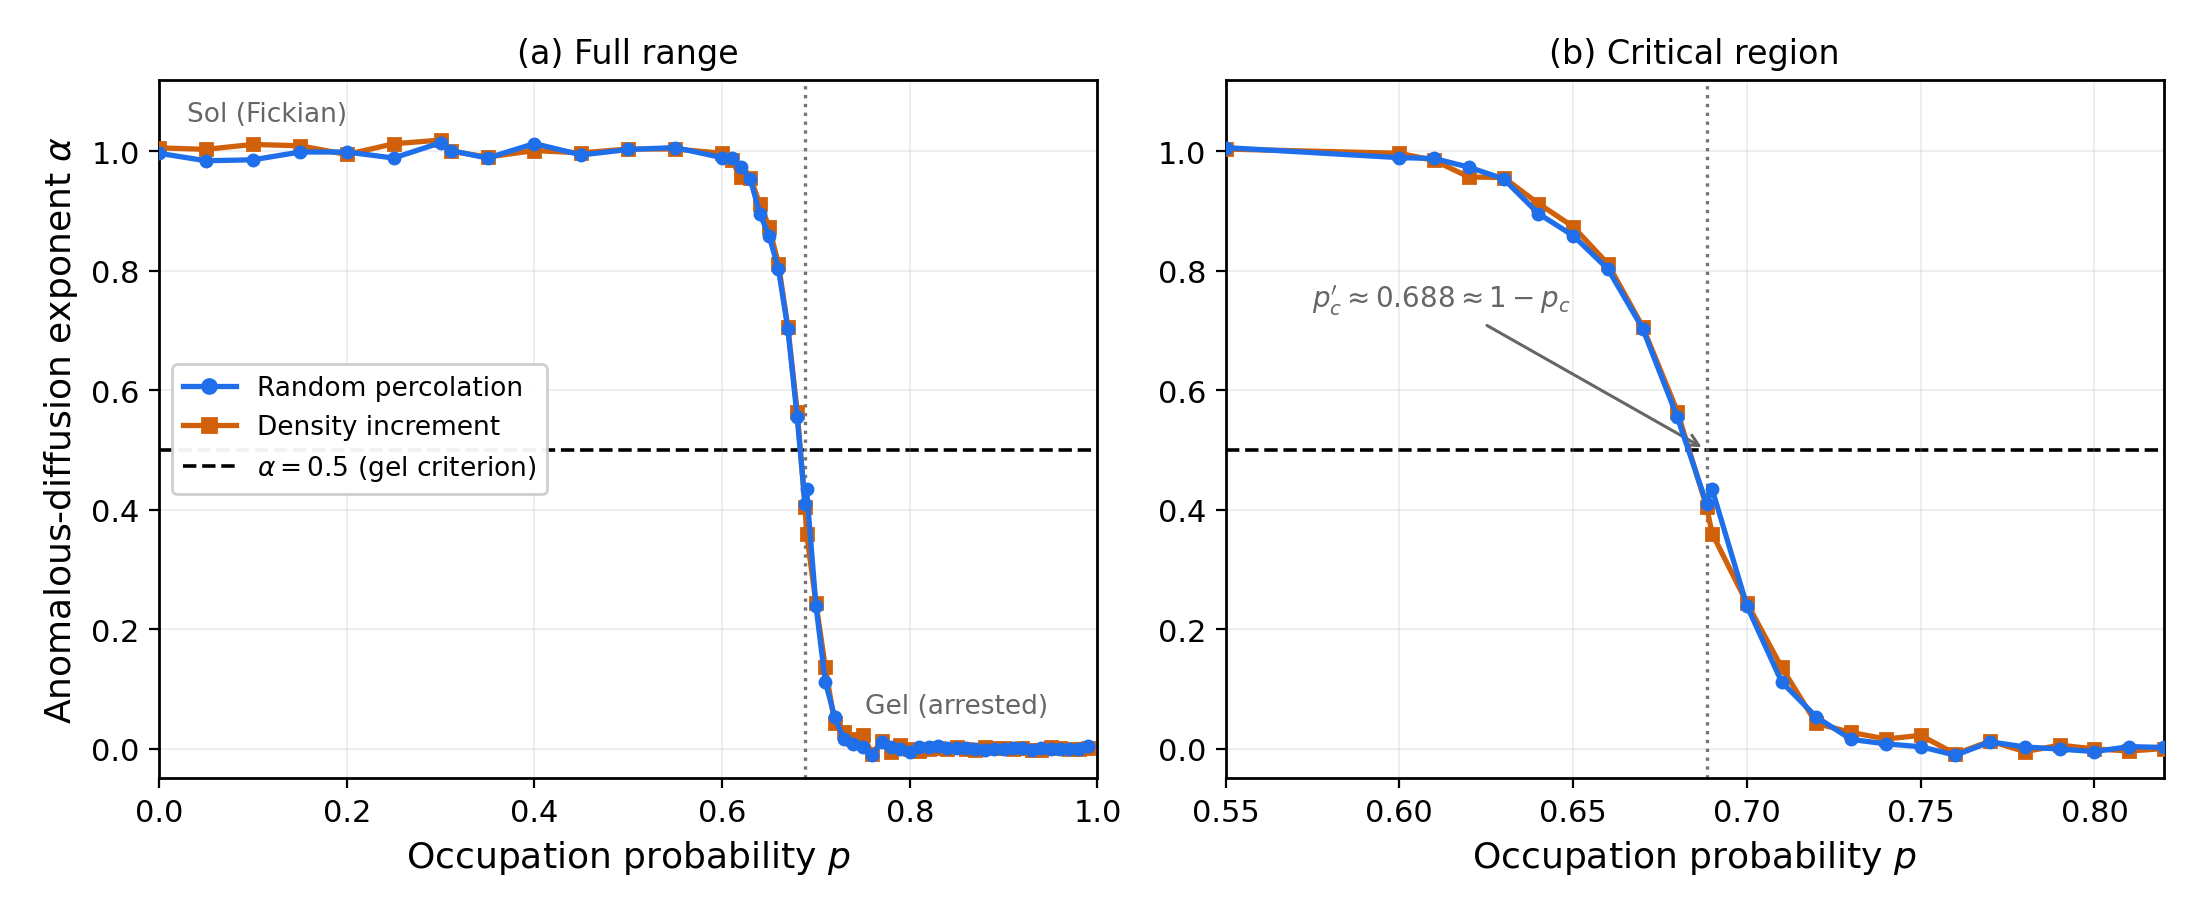
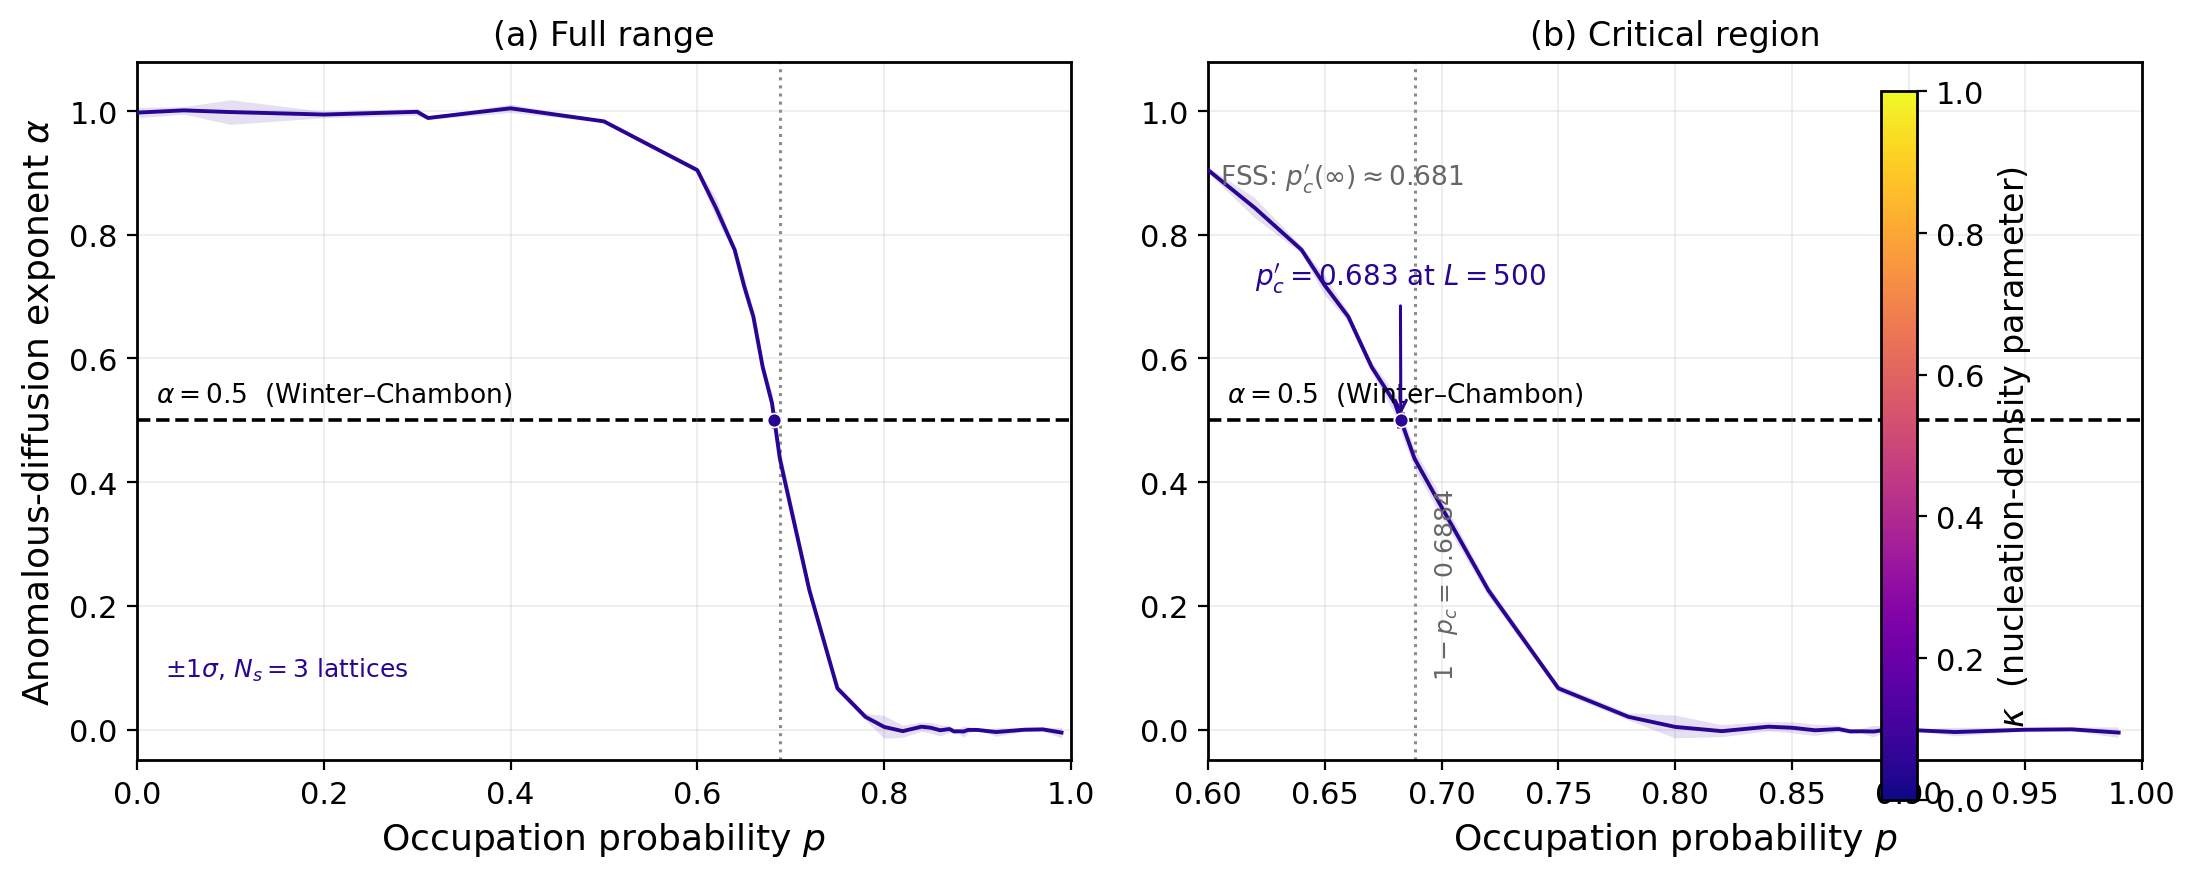
Document figures_v2 regeneration and refresh Phase A PNGs
Add a detailed README (data paths, regen commands, fig1 band vs errbars,
threshold seed error bars, kappa_alpha_common, gel-point seed stats at κ=0).
Commit regenerated fig1, threshold, and collapse panels; CSV inputs remain gitignored.

diff --git a/paper_drafts/figures_v2/README.md b/paper_drafts/figures_v2/README.md
@@ -1,0 +1,70 @@
+# Production figures for the PRL letter
+
+This directory holds **publication PNGs** and the **Python drivers** that draw them from simulation tables. The manuscript sources are `paper_drafts/prl_letter.tex`, `paper_drafts/supplemental.tex`, and `paper_drafts/prl_combined.tex`. A compact file index with draft-section mapping is in [`FIGURES_MANIFEST.md`](FIGURES_MANIFEST.md).
+
+Shared styling lives in `rw_figstyle.py`. **κ = 0** α(p) panels share logic in **`kappa_alpha_common.py`** (CSV load, per-seed grids, gel-point crossing, band vs error-bar drawing, FSS annotation helper).
+
+## What belongs here
+
+- **Committed:** PNG outputs and `make_*.py` scripts.
+- **Not committed:** all `*.csv` inputs (repo-wide `*.csv` is gitignored). Regenerate figures on a machine that has run the MATLAB pipeline or restored production tables locally.
+
+## Input data paths (gitignored)
+
+| Figure script | Primary CSV inputs (from repo root) |
+|---------------|-------------------------------------|
+| `make_fig1.py` | `matlab/Clusters_kappa/L500/kappa_study_alpha_table.csv` |
+| `make_fig2.py`, `make_fig_dyn_vs_geom.py`, `make_fig3.py` | same κ-study table (L = 500 family) |
+| `make_fig4a.py`, `make_fig4b.py`, `make_fig_collapse.py` | `matlab/FSS_study/fss_nu_summary.csv`, `fss_pcL_table.csv`, `fss_alpha_table.csv` |
+| `make_fig_threshold_kappa0.py` | `matlab/FSS_study/fss_alpha_table.csv`, `fss_pcL_table.csv`, `void_geom_fss_kappa0.csv` (or `void_geom_fss_kappa0_summary.csv`) |
+| `make_fig_alpha_window_sensitivity.py` | `matlab/FSS_study/alpha_window_summary.csv` |
+
+MATLAB campaign and analysis: see [`matlab/FSS_README.md`](../../matlab/FSS_README.md). Typical order: `RW3D_FSS_study` → `analyze_FSS`, then Phase A follow-ups `alpha_window_sensitivity`, `void_geom_FSS_kappa0`, and (for κ tunability at L = 500) `void_percolation_threshold`. The L = 500 κ-mixing α table comes from the production κ study (`RW3D_kappa_mixing_study.m` / `matlab/Clusters_kappa/L500/`).
+
+## Regeneration (from repo root)
+
+Requires Python 3 with `numpy` and `matplotlib`. CSVs must exist at the paths above.
+
+```bash
+python3 paper_drafts/figures_v2/make_fig1.py
+python3 paper_drafts/figures_v2/make_fig_threshold_kappa0.py
+python3 paper_drafts/figures_v2/make_fig_collapse.py
+python3 paper_drafts/figures_v2/make_fig4a.py
+python3 paper_drafts/figures_v2/make_fig4b.py
+python3 paper_drafts/figures_v2/make_fig_alpha_window_sensitivity.py
+python3 paper_drafts/figures_v2/make_fig_dyn_vs_geom.py
+python3 paper_drafts/figures_v2/make_fig2.py
+```
+
+`make_fig1.py` writes **two** PNGs in one run (see below). Other scripts write a single file each, named in the script header.
+
+## Fig 1: band (letter default) vs error bars
+
+`make_fig1.py` produces:
+
+| Output | Use |
+|--------|-----|
+| `fig1_random_alpha_vs_p.png` | **Letter default:** κ = 0 α(p) with ±1σ **shaded band** over N_s = 3 lattice seeds at each p, plus **horizontal** error bar on p′_c at α = 0.5 (seed-to-seed gel-point spread). |
+| `fig1_random_alpha_vs_p_errbars.png` | Same data with **vertical** ±1σ error bars at each p (subsampled on the full-range panel for clarity). For comparison or supplement. |
+
+Both variants use `kappa_alpha_common.draw_kappa_curve_band` vs `draw_kappa_curve_errbars`, and annotate FSS p′_c(∞) from `fss_nu_summary.csv` (`condition = k0p00`) when that file is present. Bernoulli reference 1 − p_c = 0.6884 is marked as a dotted vertical line.
+
+**Gel-point seed statistics at κ = 0 (L = 500, α = 0.5 crossing per seed):** mean p′_c = **0.682514 ± 0.001382** (N_s = 3 seeds). This is the horizontal uncertainty shown on the band figure, not the vertical α band at fixed p.
+
+## Threshold panel: per-seed error bars
+
+`fig_threshold_kappa0.png` (`make_fig_threshold_kappa0.py`) plots dynamical p′_MR(L) and geometric p′_geom(L) at κ = 0 versus system size, with **±1σ error bars over seeds** at each L, alongside the Bernoulli reference 1 − p_c. Dynamical thresholds are recomputed from per-seed α(p, L) in `fss_alpha_table.csv` when a seed column is present; geometric points come from `void_geom_fss_kappa0.csv` (long format) or its summary file.
+
+## Phase A (`cursor/phase-a-science-fixes`)
+
+This branch batch aligns **Phase A** science fixes with regenerated PNGs:
+
+- Shared κ = 0 α(p) drawing and gel-point uncertainty via `kappa_alpha_common.py`.
+- Fig 1 band + errbars variants; threshold panel with explicit seed error bars.
+- Tracked updates to `fig1_random_alpha_vs_p.png`, `fig1_random_alpha_vs_p_errbars.png`, `fig_threshold_kappa0.png`, and `fig_collapse_kappa035.png` where CSV-backed regeneration was run locally.
+
+Manuscript `.tex` edits and full FSS CSV restoration may land in separate commits; **do not** commit gitignored CSVs when pushing figure-only updates.
+
+## Current claims (figure context)
+
+See root [`LEDGER.md`](../../LEDGER.md) and [`paper_drafts/PAPER_WRITING_RULES.md`](../PAPER_WRITING_RULES.md). In brief: dynamical gel point matches void spanning for κ ≲ 0.8; at κ = 0, p′_c(∞) ≈ 0.681; α is the log–log MSD slope on [L_W/100, L_W/10], not a changepoint time.
